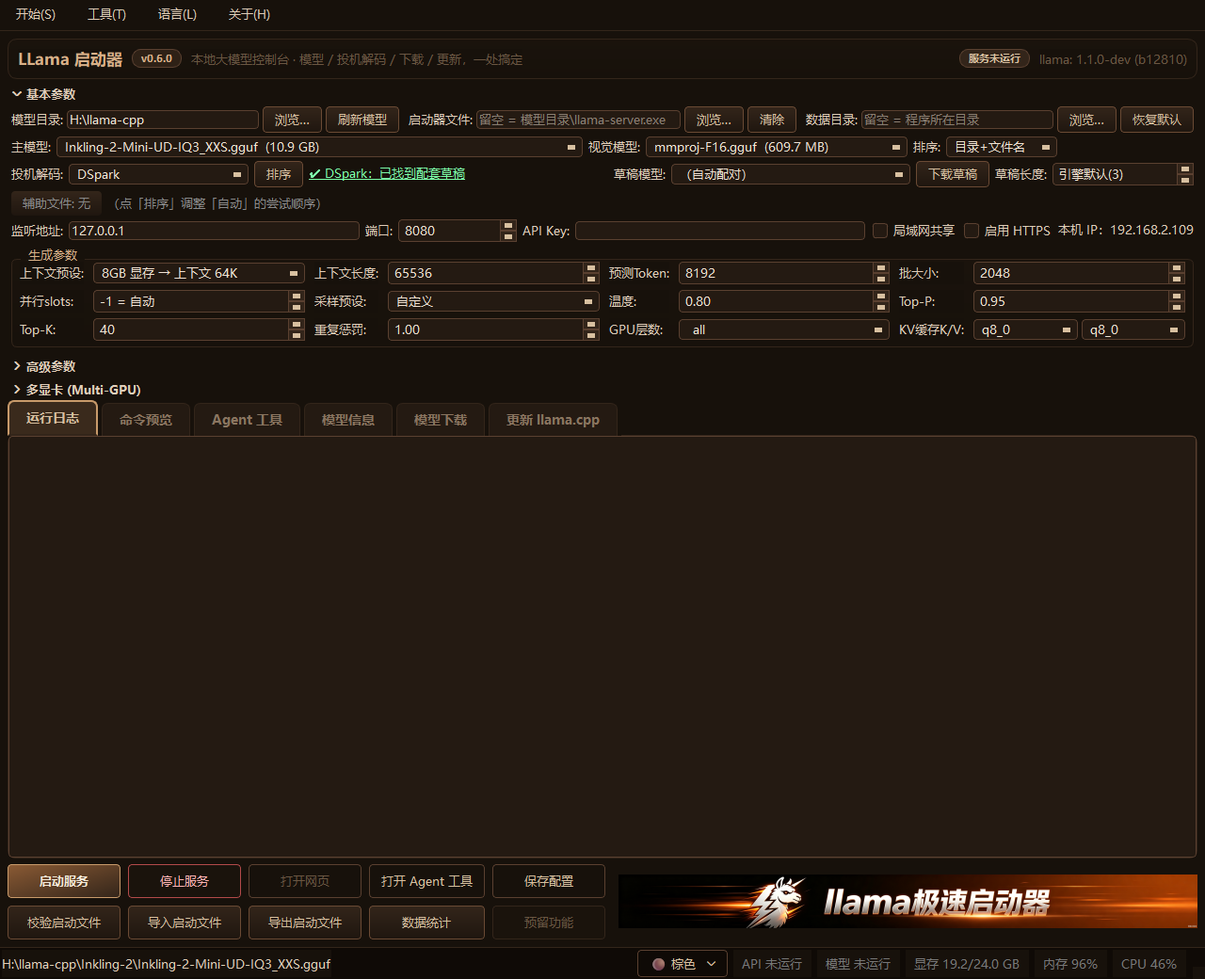
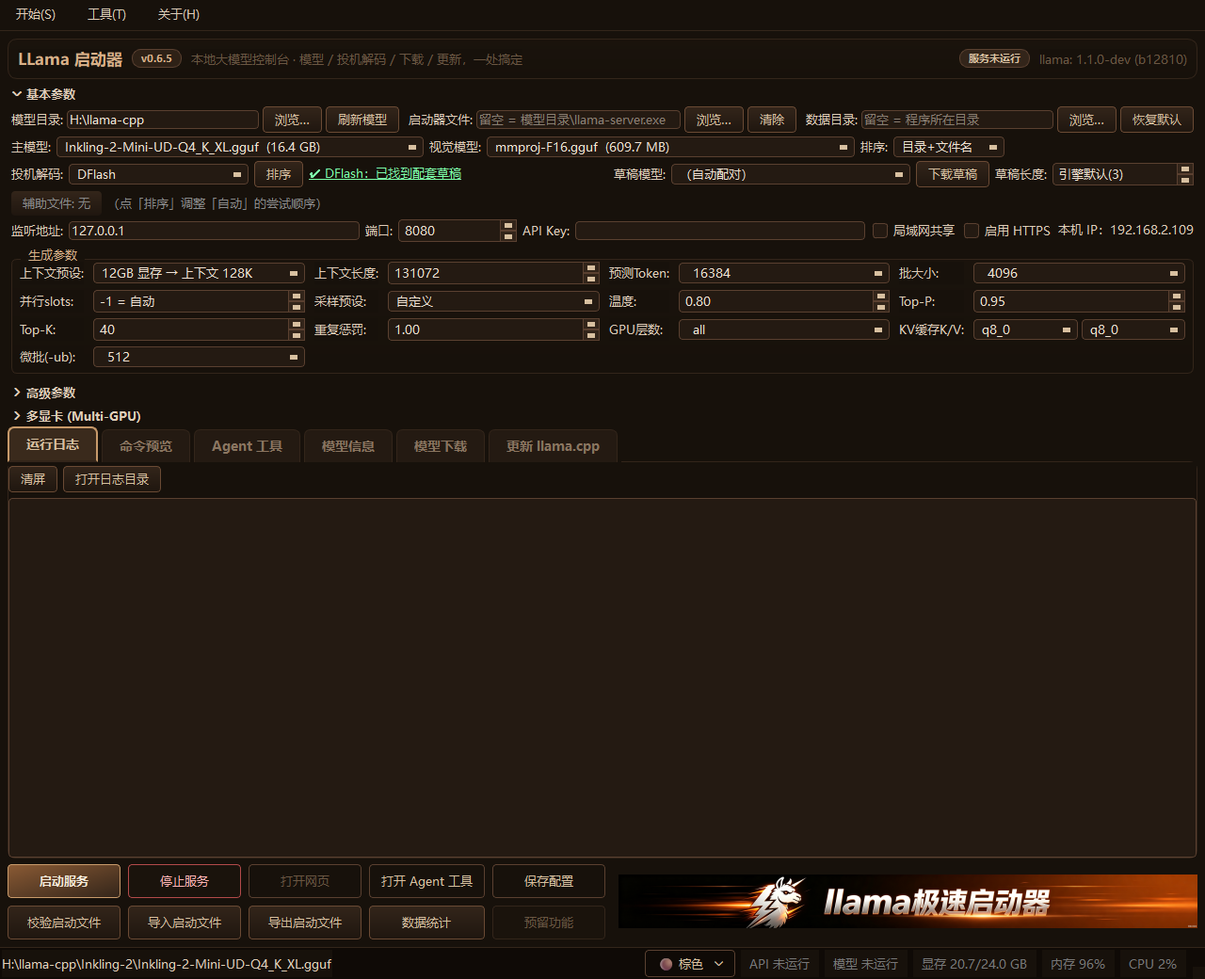
release: v0.6.5 - 启动前按本机算一遍（合理性体检 + 显存预算 + MoE 卸载预设 + 自升级加固）
本版把四个未单独发布的内部迭代（v0.6.1–v0.6.4）并成一个正式版本：

- 兼容 llama.cpp 0.4.1 删掉 --mlock：读本机 llama-server --help 决定写新版 -lm 还是旧版参数，服务不再因此起不来
- 新增「工具 → 启动文件 → 校验启动文件 → 合理性体检」：完全离线按本机逐项给结论；「让模型分析」必须手动点，payload 不含 API Key
- 微批 -ub 进界面 + 启动前显存预算：权重 + KV + 批处理激活缓冲（15 点实测公式），不够只提示并给一键下调，不静默改设置
- MoE 卸载预设按本机显存/内存与模型每层专家实际字节数计算 --n-cpu-moe / --moe-cache-mib；稠密模型不再下发专家参数
- 更新页平台/后端多选筛选；界面字号 Ctrl+滚轮缩放；表格列宽可拖、路径中间省略、操作列按按钮定宽
- 启动器自升级加固：替换失败自动回滚、下载大小与文件头校验、.part 防拼接、便携版走 -portable.zip
- 七张语言表各 1199 条（新增 259 / 清理 19），缺失 0、多余 0
- 文档与物料口径统一到 v0.6.5：首图改为品牌 banner（AI创客师 / AIMakerLab，不含下载链接），页面截图精简为 2 张（main / health）
- 文档正文与代码注释清理本机绝对路径，示例统一 D:/models

测试：_test_all.py 20 套件全通过（moe 71 / membudget 37 / selfupdate 62 断言）

diff --git a/src/locales/ru.py b/src/locales/ru.py
@@ -28,7 +28,7 @@ STRINGS = {
 "== 联网查询结果 ==": "== Результаты онлайн-запроса ==",
 "A/B/C 三个条件的组合方式：并=全部满足；或=任一满足。": "Комбинация трёх условий A/B/C: И = выполняются все; ИЛИ = достаточно любого.",
 "AI 编程 Agent，终端界面（自动连接本服务）": "AI-агент для программирования, терминальный интерфейс (автоподключение к этой службе)",
-"AI创客师": "AI Chuangkesi",
+"AI创客师": "AIMakerLab",
 "API Key：出于安全考虑不导入（文件中为打码值）": "API Key: не импортируется из соображений безопасности (в файле значение замаскировано)",
 "API 使用中({0})": "API задействован ({0})",
 "API 密钥（--api-key）。\n设置后客户端调用接口必须携带此 Key，否则会被拒绝。\n留空 = 不设密钥，任何人都能访问。": "API-ключ (--api-key).\nЕсли задан, клиенты обязаны передавать этот ключ при вызовах API, иначе запрос отклоняется.\nПусто = ключ не требуется, доступ открыт всем.",
@@ -1002,7 +1002,7 @@ STRINGS = {
     "ℹ 该模型带视觉投影文件：选上才能看图（只做纯对话可以留空）": "ℹ У этой модели есть файл проекции зрения: выберите его, чтобы видеть изображения (для текстового чата можно оставить пусто)",
     "同目录发现了 mmproj 视觉投影，说明这个模型支持看图。不选 = 只当纯文本模型用。": "В той же папке найден mmproj — зрительная проекция: модель умеет читать изображения. Не выбрать = использовать только как текстовую.",
 
-    # ── v0.6.2 补充（启动文件体检 / 更新页筛选 / 界面字号缩放）──
+    # ── v0.6.5 补充（启动文件体检 / 更新页筛选 / 界面字号缩放）──
     "(无值)": "(без значения)",
     "--port 超出 1-65535：{0}": "--port вне диапазона 1-65535: {0}",
     "-c {0} 超过模型训练上限 {1}：长度外质量会下降，需要外推请配 RoPE 缩放": "-c {0} превышает обученный лимит модели {1}: за его пределами качество падает; для экстраполяции включите RoPE-scaling",
@@ -1105,7 +1105,7 @@ STRINGS = {
     "；当前估算不需要把专家卸载到 CPU": "; по текущей оценке выгружать экспертов на CPU не нужно",
     "；显存紧张，建议 --n-cpu-moe 从 1/4 层起逐步加大": "; видеопамяти впритык — увеличивайте --n-cpu-moe, начиная с 1/4 слоёв",
 
-    # ── v0.6.2 补充（启动文件体检 / 更新页筛选 / 界面字号缩放）──
+    # ── v0.6.5 补充（启动文件体检 / 更新页筛选 / 界面字号缩放）──
     "--cpu-moe（专家全部放 CPU）": "--cpu-moe (все эксперты на CPU)",
     "--cpu-moe：专家全部留在内存，显存只放注意力等权重": "--cpu-moe: все веса экспертов остаются в ОЗУ, в VRAM — только внимание и прочие веса",
     "--n-cpu-moe {0}（前 {0} 层专家放 CPU）": "--n-cpu-moe {0} (первые {0} слоёв экспертов на CPU)",
@@ -1153,7 +1153,7 @@ STRINGS = {
     "；专家全在显存里，不需要 --moe-cache-mib": "; все эксперты уже в VRAM, --moe-cache-mib не нужен",
     "；专家缓存 --moe-cache-mib {0}（用掉剩余显存约 {1:.2f} GiB）": "; кэш экспертов --moe-cache-mib {0} (занимает ~{1:.2f} GiB из оставшейся VRAM)",
 
-    # ── v0.6.2 补充（启动文件体检 / 更新页筛选 / 界面字号缩放）──
+    # ── v0.6.5 补充（启动文件体检 / 更新页筛选 / 界面字号缩放）──
     "\n\n建议把微批 -ub 从 {0} 降到 {1}（估算降到 {2:.1f} GiB）。": "\n\nРекомендуется уменьшить микробатч -ub с {0} до {1} (оценка снизится до {2:.1f} GiB).",
     "\n\n把微批降到 64 仍装不下（估算 {0:.1f} GiB）：还要降低上下文 -c、打开 -fa on，或把 -ngl 调小。": "\n\nДаже микробатч 64 не помещается (оценка {0:.1f} GiB): уменьшите контекст -c, включите -fa on или уменьшите -ngl.",
     "仍然启动": "Всё равно запустить",
@@ -1179,7 +1179,7 @@ STRINGS = {
     "若启动时报显存分配失败（CUDA graph / buffer alloc），先降 -ub。": "Если при запуске ошибка выделения VRAM (CUDA graph / buffer alloc) — сначала уменьшите -ub.",
     "这是估算，不是保证：驱动、显存碎片、其它程序都会影响实际结果。": "Это оценка, а не гарантия: драйверы, фрагментация VRAM и другие программы влияют на результат.",
 
-    # ── v0.6.2 补充（启动文件体检 / 更新页筛选 / 界面字号缩放）──
+    # ── v0.6.5 补充（启动文件体检 / 更新页筛选 / 界面字号缩放）──
     "zip 包结构不完整": "Архив zip неполный",
     "下载到的包不是有效 zip：{0}": "Загруженный файл не является корректным zip: {0}",
     "下载的文件没有通过校验：{0}。\n可能是网络中断、代理改写或安全软件拦截，已删除该文件，请重试。": "Загруженный файл не прошёл проверку: {0}.\nВозможны обрыв соединения, изменение прокси или блокировка антивирусом. Файл удалён; повторите попытку.",

diff --git a/src/locales/ja.py b/src/locales/ja.py
@@ -28,7 +28,7 @@ STRINGS = {
 "== 联网查询结果 ==": "== オンライン照会結果 ==",
 "A/B/C 三个条件的组合方式：并=全部满足；或=任一满足。": "A/B/C の 3 条件の組み合わせ方：かつ=すべて満たす；または=いずれか満たす。",
 "AI 编程 Agent，终端界面（自动连接本服务）": "AI プログラミング Agent、ターミナル UI（本サービスへ自動接続）",
-"AI创客师": "AI創客師",
+"AI创客师": "AIMakerLab",
 "API Key：出于安全考虑不导入（文件中为打码值）": "API Key：セキュリティ上の理由によりインポートしません（ファイル内はマスキング値）",
 "API 使用中({0})": "API 使用中({0})",
 "API 密钥（--api-key）。\n设置后客户端调用接口必须携带此 Key，否则会被拒绝。\n留空 = 不设密钥，任何人都能访问。": "API キー（--api-key）。\n設定するとクライアントはインターフェース呼び出し時にこの Key を携行する必要があり、ない場合は拒否されます。\n空白 = 鍵を設定せず、誰でもアクセスできます。",
@@ -1002,7 +1002,7 @@ STRINGS = {
     "ℹ 该模型带视觉投影文件：选上才能看图（只做纯对话可以留空）": "ℹ このモデルには視覚プロジェクションファイルがあります。画像を見るには選択してください（テキストのみなら空欄で構いません）",
     "同目录发现了 mmproj 视觉投影，说明这个模型支持看图。不选 = 只当纯文本模型用。": "同じフォルダに mmproj 視覚投影が見つかりました。このモデルは画像を理解できます。未選択 = テキストのみのモデルとして使います。",
 
-    # ── v0.6.2 补充（启动文件体检 / 更新页筛选 / 界面字号缩放）──
+    # ── v0.6.5 补充（启动文件体检 / 更新页筛选 / 界面字号缩放）──
     "(无值)": "(値なし)",
     "--port 超出 1-65535：{0}": "--port が 1-65535 を超えています：{0}",
     "-c {0} 超过模型训练上限 {1}：长度外质量会下降，需要外推请配 RoPE 缩放": "-c {0} はモデルの学習上限 {1} を超過：超えると品質が落ちます。外挿には RoPE スケーリングを設定してください",
@@ -1105,7 +1105,7 @@ STRINGS = {
     "；当前估算不需要把专家卸载到 CPU": "；現在の推定では専門家を CPU にオフロードする必要はありません",
     "；显存紧张，建议 --n-cpu-moe 从 1/4 层起逐步加大": "；VRAM が逼迫気味なので --n-cpu-moe を層数の 1/4 から段階的に増やしてください",
 
-    # ── v0.6.2 补充（启动文件体检 / 更新页筛选 / 界面字号缩放）──
+    # ── v0.6.5 补充（启动文件体检 / 更新页筛选 / 界面字号缩放）──
     "--cpu-moe（专家全部放 CPU）": "--cpu-moe（専門家すべて CPU）",
     "--cpu-moe：专家全部留在内存，显存只放注意力等权重": "--cpu-moe：専門家重みはすべてメモリに置き、VRAM には注意力などの重みだけを載せます",
     "--n-cpu-moe {0}（前 {0} 层专家放 CPU）": "--n-cpu-moe {0}（先頭 {0} 層の専門家を CPU に）",
@@ -1153,7 +1153,7 @@ STRINGS = {
     "；专家全在显存里，不需要 --moe-cache-mib": "；専門家すべて VRAM 内なので --moe-cache-mib は不要です",
     "；专家缓存 --moe-cache-mib {0}（用掉剩余显存约 {1:.2f} GiB）": "；専門家キャッシュ --moe-cache-mib {0}（残り VRAM の約 {1:.2f} GiB を使用）",
 
-    # ── v0.6.2 补充（启动文件体检 / 更新页筛选 / 界面字号缩放）──
+    # ── v0.6.5 补充（启动文件体检 / 更新页筛选 / 界面字号缩放）──
     "\n\n建议把微批 -ub 从 {0} 降到 {1}（估算降到 {2:.1f} GiB）。": "\n\nマイクロバッチ -ub を {0} から {1} に下げることを推奨（見積もりは {2:.1f} GiB に低下）。",
     "\n\n把微批降到 64 仍装不下（估算 {0:.1f} GiB）：还要降低上下文 -c、打开 -fa on，或把 -ngl 调小。": "\n\nマイクロバッチを 64 に下げても収まりません（見積もり {0:.1f} GiB）：コンテキスト -c を下げる、-fa on にする、-ngl を小さくする必要があります。",
     "仍然启动": "そのまま起動",
@@ -1179,7 +1179,7 @@ STRINGS = {
     "若启动时报显存分配失败（CUDA graph / buffer alloc），先降 -ub。": "起動時に VRAM 確保エラー（CUDA graph / buffer alloc）が出る場合は、まず -ub を下げてください。",
     "这是估算，不是保证：驱动、显存碎片、其它程序都会影响实际结果。": "これは見積もりであり保証ではありません。ドライバ、VRAM の断片化、他のアプリの影響を受けます。",
 
-    # ── v0.6.2 补充（启动文件体检 / 更新页筛选 / 界面字号缩放）──
+    # ── v0.6.5 补充（启动文件体检 / 更新页筛选 / 界面字号缩放）──
     "zip 包结构不完整": "zip の構造が不完全です",
     "下载到的包不是有效 zip：{0}": "ダウンロードしたファイルは有効な zip ではありません：{0}",
     "下载的文件没有通过校验：{0}。\n可能是网络中断、代理改写或安全软件拦截，已删除该文件，请重试。": "ダウンロードしたファイルの検証に失敗しました：{0}。\n通信の中断、プロキシによる書き換え、セキュリティソフトの干渉の可能性があります。ファイルは削除しました。もう一度お試しください。",

diff --git a/src/locales/ko.py b/src/locales/ko.py
@@ -28,7 +28,7 @@ STRINGS = {
 "== 联网查询结果 ==": "== 온라인 조회 결과 ==",
 "A/B/C 三个条件的组合方式：并=全部满足；或=任一满足。": "A/B/C 세 조건의 조합 방식: 그리고 = 모두 충족; 또는 = 하나라도 충족.",
 "AI 编程 Agent，终端界面（自动连接本服务）": "AI 코딩 Agent, 터미널 화면 (이 서비스에 자동 연결)",
-"AI创客师": "AI 크리에이터",
+"AI创客师": "AIMakerLab",
 "API Key：出于安全考虑不导入（文件中为打码值）": "API Key: 보안상의 이유로 가져오지 않음 (파일에는 마스킹된 값)",
 "API 使用中({0})": "API 사용 중({0})",
 "API 密钥（--api-key）。\n设置后客户端调用接口必须携带此 Key，否则会被拒绝。\n留空 = 不设密钥，任何人都能访问。": "API 키(--api-key).\n설정하면 클라이언트가 인터페이스를 호출할 때 이 Key를 반드시 포함해야 하며, 그렇지 않으면 거부됩니다.\n비워 두면 = 키 없음, 누구나 접근 가능.",
@@ -1002,7 +1002,7 @@ STRINGS = {
     "ℹ 该模型带视觉投影文件：选上才能看图（只做纯对话可以留空）": "ℹ 이 모델에는 비전 투영 파일이 있습니다. 이미지를 보려면 선택하세요(텍스트 대화만 한다면 비워 두어도 됩니다)",
     "同目录发现了 mmproj 视觉投影，说明这个模型支持看图。不选 = 只当纯文本模型用。": "같은 폴더에서 mmproj 비전 투영을 찾았습니다. 이 모델은 이미지를 이해할 수 있다는 뜻입니다. 선택하지 않으면 텍스트 전용 모델로 씁니다.",
 
-    # ── v0.6.2 补充（启动文件体检 / 更新页筛选 / 界面字号缩放）──
+    # ── v0.6.5 补充（启动文件体检 / 更新页筛选 / 界面字号缩放）──
     "(无值)": "(값 없음)",
     "--port 超出 1-65535：{0}": "--port 값이 1-65535 범위를 벗어남: {0}",
     "-c {0} 超过模型训练上限 {1}：长度外质量会下降，需要外推请配 RoPE 缩放": "-c {0}이(가) 모델 학습 상한 {1}을(를) 초과: 초과 시 품질이 떨어집니다. 외삽이 필요하면 RoPE 스케일링을 설정하세요",
@@ -1105,7 +1105,7 @@ STRINGS = {
     "；当前估算不需要把专家卸载到 CPU": "; 현재 예상으로는 전문가를 CPU로 오프로드할 필요가 없습니다",
     "；显存紧张，建议 --n-cpu-moe 从 1/4 层起逐步加大": "; VRAM이 빠듯하므로 --n-cpu-moe를 레이어의 1/4부터 점차 늘리세요",
 
-    # ── v0.6.2 补充（启动文件体检 / 更新页筛选 / 界面字号缩放）──
+    # ── v0.6.5 补充（启动文件体检 / 更新页筛选 / 界面字号缩放）──
     "--cpu-moe（专家全部放 CPU）": "--cpu-moe(전문가 전부 CPU)",
     "--cpu-moe：专家全部留在内存，显存只放注意力等权重": "--cpu-moe: 전문가 가중치는 전부 메모리에 두고 VRAM 에는 어텐션 등 가중치만 올립니다",
     "--n-cpu-moe {0}（前 {0} 层专家放 CPU）": "--n-cpu-moe {0}(앞의 {0}개 레이어 전문가를 CPU 로)",
@@ -1153,7 +1153,7 @@ STRINGS = {
     "；专家全在显存里，不需要 --moe-cache-mib": "; 전문가가 전부 VRAM 에 있으므로 --moe-cache-mib 가 필요 없습니다",
     "；专家缓存 --moe-cache-mib {0}（用掉剩余显存约 {1:.2f} GiB）": "; 전문가 캐시 --moe-cache-mib {0}(남은 VRAM 약 {1:.2f} GiB 사용)",
 
-    # ── v0.6.2 补充（启动文件体检 / 更新页筛选 / 界面字号缩放）──
+    # ── v0.6.5 补充（启动文件体检 / 更新页筛选 / 界面字号缩放）──
     "\n\n建议把微批 -ub 从 {0} 降到 {1}（估算降到 {2:.1f} GiB）。": "\n\n마이크로 배치 -ub 를 {0} 에서 {1} 로 낮추는 것을 권장합니다(추정치 {2:.1f} GiB).",
     "\n\n把微批降到 64 仍装不下（估算 {0:.1f} GiB）：还要降低上下文 -c、打开 -fa on，或把 -ngl 调小。": "\n\n마이크로 배치를 64 로 낮춰도 들어가지 않습니다(추정 {0:.1f} GiB): 컨텍스트 -c 를 낮추거나 -fa on, 또는 -ngl 을 줄이세요.",
     "仍然启动": "그대로 시작",
@@ -1179,7 +1179,7 @@ STRINGS = {
     "若启动时报显存分配失败（CUDA graph / buffer alloc），先降 -ub。": "시작 시 VRAM 할당 실패(CUDA graph / buffer alloc)가 나면 먼저 -ub 를 낮추세요.",
     "这是估算，不是保证：驱动、显存碎片、其它程序都会影响实际结果。": "이것은 추정치이며 보장이 아닙니다. 드라이버, VRAM 단편화, 다른 프로그램의 영향이 있습니다.",
 
-    # ── v0.6.2 补充（启动文件体检 / 更新页筛选 / 界面字号缩放）──
+    # ── v0.6.5 补充（启动文件体检 / 更新页筛选 / 界面字号缩放）──
     "zip 包结构不完整": "zip 구조가 불완전합니다",
     "下载到的包不是有效 zip：{0}": "다운로드한 파일이 유효한 zip 이 아닙니다: {0}",
     "下载的文件没有通过校验：{0}。\n可能是网络中断、代理改写或安全软件拦截，已删除该文件，请重试。": "다운로드한 파일 검증에 실패했습니다: {0}.\n네트워크 중단, 프록시 변경, 보안 프로그램 차단일 수 있습니다. 파일을 삭제했으니 다시 시도하세요.",

diff --git a/src/locales/fr.py b/src/locales/fr.py
@@ -28,7 +28,7 @@ STRINGS = {
 "== 联网查询结果 ==": "== Résultats de la requête en ligne ==",
 "A/B/C 三个条件的组合方式：并=全部满足；或=任一满足。": "Combinaison des trois conditions A/B/C : ET = toutes satisfaites ; OU = au moins une satisfaite.",
 "AI 编程 Agent，终端界面（自动连接本服务）": "Agent de programmation IA, interface terminal (se connecte automatiquement à ce service)",
-"AI创客师": "AI创客师",
+"AI创客师": "AIMakerLab",
 "API Key：出于安全考虑不导入（文件中为打码值）": "Clé API : non importée par mesure de sécurité (valeur masquée dans le fichier)",
 "API 使用中({0})": "API en utilisation ({0})",
 "API 密钥（--api-key）。\n设置后客户端调用接口必须携带此 Key，否则会被拒绝。\n留空 = 不设密钥，任何人都能访问。": "Clé API (--api-key).\nSi elle est définie, les clients doivent l'inclure dans leurs appels, sinon la requête est rejetée.\nVide = aucune clé, tout le monde peut accéder au service.",
@@ -1002,7 +1002,7 @@ STRINGS = {
     "ℹ 该模型带视觉投影文件：选上才能看图（只做纯对话可以留空）": "ℹ Ce modèle fournit un fichier de projection visuelle : sélectionnez-le pour voir les images (laisser vide pour un chat purement textuel)",
     "同目录发现了 mmproj 视觉投影，说明这个模型支持看图。不选 = 只当纯文本模型用。": "Une projection visuelle mmproj a été trouvée dans le même dossier : ce modèle sait lire les images. Ne pas la choisir = l'utiliser uniquement comme modèle de texte.",
 
-    # ── v0.6.2 补充（启动文件体检 / 更新页筛选 / 界面字号缩放）──
+    # ── v0.6.5 补充（启动文件体检 / 更新页筛选 / 界面字号缩放）──
     "(无值)": "(sans valeur)",
     "--port 超出 1-65535：{0}": "--port hors de 1-65535 : {0}",
     "-c {0} 超过模型训练上限 {1}：长度外质量会下降，需要外推请配 RoPE 缩放": "-c {0} dépasse la limite entraînée du modèle {1} : au-delà la qualité baisse ; activez le scaling RoPE pour extrapoler",
@@ -1105,7 +1105,7 @@ STRINGS = {
     "；当前估算不需要把专家卸载到 CPU": " ; l'estimation actuelle ne demande pas de décharger des experts sur CPU",
     "；显存紧张，建议 --n-cpu-moe 从 1/4 层起逐步加大": " ; la VRAM est juste : augmentez --n-cpu-moe en partant d'1/4 des couches",
 
-    # ── v0.6.2 补充（启动文件体检 / 更新页筛选 / 界面字号缩放）──
+    # ── v0.6.5 补充（启动文件体检 / 更新页筛选 / 界面字号缩放）──
     "--cpu-moe（专家全部放 CPU）": "--cpu-moe (tous les experts sur CPU)",
     "--cpu-moe：专家全部留在内存，显存只放注意力等权重": "--cpu-moe : tous les experts restent en RAM, la VRAM ne porte que l'attention et les autres poids",
     "--n-cpu-moe {0}（前 {0} 层专家放 CPU）": "--n-cpu-moe {0} (les experts des {0} premiers blocs sur CPU)",
@@ -1153,7 +1153,7 @@ STRINGS = {
     "；专家全在显存里，不需要 --moe-cache-mib": " ; tous les experts sont déjà en VRAM, pas besoin de --moe-cache-mib",
     "；专家缓存 --moe-cache-mib {0}（用掉剩余显存约 {1:.2f} GiB）": " ; cache d'experts --moe-cache-mib {0} (utilise ~{1:.2f} GiB de la VRAM restante)",
 
-    # ── v0.6.2 补充（启动文件体检 / 更新页筛选 / 界面字号缩放）──
+    # ── v0.6.5 补充（启动文件体检 / 更新页筛选 / 界面字号缩放）──
     "\n\n建议把微批 -ub 从 {0} 降到 {1}（估算降到 {2:.1f} GiB）。": "\n\nIl est suggéré de réduire le micro-lot -ub de {0} à {1} (estimation ramenée à {2:.1f} GiB).",
     "\n\n把微批降到 64 仍装不下（估算 {0:.1f} GiB）：还要降低上下文 -c、打开 -fa on，或把 -ngl 调小。": "\n\nMême un micro-lot de 64 ne tient pas (estimation {0:.1f} GiB) : réduisez le contexte -c, activez -fa on ou diminuez -ngl.",
     "仍然启动": "Démarrer quand même",
@@ -1179,7 +1179,7 @@ STRINGS = {
     "若启动时报显存分配失败（CUDA graph / buffer alloc），先降 -ub。": "Si le démarrage échoue sur une allocation VRAM (CUDA graph / buffer alloc), baissez d'abord -ub.",
     "这是估算，不是保证：驱动、显存碎片、其它程序都会影响实际结果。": "Ce n'est qu'une estimation, pas une garantie : pilotes, fragmentation de la VRAM et autres programmes jouent un rôle.",
 
-    # ── v0.6.2 补充（启动文件体检 / 更新页筛选 / 界面字号缩放）──
+    # ── v0.6.5 补充（启动文件体检 / 更新页筛选 / 界面字号缩放）──
     "zip 包结构不完整": "L'archive zip est incomplète",
     "下载到的包不是有效 zip：{0}": "Le fichier téléchargé n'est pas un zip valide : {0}",
     "下载的文件没有通过校验：{0}。\n可能是网络中断、代理改写或安全软件拦截，已删除该文件，请重试。": "Le fichier téléchargé a échoué la vérification : {0}.\nCause possible : connexion interrompue, proxy qui le réécrit ou antivirus. Le fichier a été supprimé ; réessayez.",

diff --git a/src/locales/es.py b/src/locales/es.py
@@ -28,7 +28,7 @@ STRINGS = {
 "== 联网查询结果 ==": "== Resultados de consulta en línea ==",
 "A/B/C 三个条件的组合方式：并=全部满足；或=任一满足。": "Forma de combinar las condiciones A/B/C: Y = se cumplen todas; O = se cumple alguna.",
 "AI 编程 Agent，终端界面（自动连接本服务）": "Agente de programación IA, interfaz de terminal (se conecta automáticamente a este servicio)",
-"AI创客师": "Creador de IA",
+"AI创客师": "AIMakerLab",
 "API Key：出于安全考虑不导入（文件中为打码值）": "API Key: no se importa por seguridad (en el archivo está enmascarada)",
 "API 使用中({0})": "API en uso ({0})",
 "API 密钥（--api-key）。\n设置后客户端调用接口必须携带此 Key，否则会被拒绝。\n留空 = 不设密钥，任何人都能访问。": "Clave de API (--api-key).\nSi se define, los clientes deberán incluirla al llamar la interfaz; de lo contrario serán rechazados.\nVacío = sin clave; cualquiera puede acceder.",
@@ -1002,7 +1002,7 @@ STRINGS = {
     "ℹ 该模型带视觉投影文件：选上才能看图（只做纯对话可以留空）": "ℹ Este modelo incluye un archivo de proyección visual: selecciónalo para ver imágenes (puedes dejarlo vacío si solo chateas por texto)",
     "同目录发现了 mmproj 视觉投影，说明这个模型支持看图。不选 = 只当纯文本模型用。": "Se encontró una proyección visual mmproj en la misma carpeta: el modelo puede leer imágenes. Si no lo eliges, se usará solo como modelo de texto.",
 
-    # ── v0.6.2 补充（启动文件体检 / 更新页筛选 / 界面字号缩放）──
+    # ── v0.6.5 补充（启动文件体检 / 更新页筛选 / 界面字号缩放）──
     "(无值)": "(sin valor)",
     "--port 超出 1-65535：{0}": "--port fuera de 1-65535: {0}",
     "-c {0} 超过模型训练上限 {1}：长度外质量会下降，需要外推请配 RoPE 缩放": "-c {0} supera el límite entrenado del modelo {1}: más allá baja la calidad; usa escalado RoPE para extrapolar",
@@ -1105,7 +1105,7 @@ STRINGS = {
     "；当前估算不需要把专家卸载到 CPU": "; según la estimación actual no hace falta descargar expertos a CPU",
     "；显存紧张，建议 --n-cpu-moe 从 1/4 层起逐步加大": "; la VRAM está justa: sube --n-cpu-moe empezando por 1/4 de las capas",
 
-    # ── v0.6.2 补充（启动文件体检 / 更新页筛选 / 界面字号缩放）──
+    # ── v0.6.5 补充（启动文件体检 / 更新页筛选 / 界面字号缩放）──
     "--cpu-moe（专家全部放 CPU）": "--cpu-moe (todos los expertos en CPU)",
     "--cpu-moe：专家全部留在内存，显存只放注意力等权重": "--cpu-moe: todos los expertos se quedan en RAM; la VRAM solo guarda atención y otros pesos",
     "--n-cpu-moe {0}（前 {0} 层专家放 CPU）": "--n-cpu-moe {0} (los expertos de los {0} primeros bloques en CPU)",
@@ -1153,7 +1153,7 @@ STRINGS = {
     "；专家全在显存里，不需要 --moe-cache-mib": "; todos los expertos ya están en VRAM, no hace falta --moe-cache-mib",
     "；专家缓存 --moe-cache-mib {0}（用掉剩余显存约 {1:.2f} GiB）": "; caché de expertos --moe-cache-mib {0} (usa ~{1:.2f} GiB de la VRAM restante)",
 
-    # ── v0.6.2 补充（启动文件体检 / 更新页筛选 / 界面字号缩放）──
+    # ── v0.6.5 补充（启动文件体检 / 更新页筛选 / 界面字号缩放）──
     "\n\n建议把微批 -ub 从 {0} 降到 {1}（估算降到 {2:.1f} GiB）。": "\n\nSe sugiere bajar el micro-lote -ub de {0} a {1} (la estimación baja a {2:.1f} GiB).",
     "\n\n把微批降到 64 仍装不下（估算 {0:.1f} GiB）：还要降低上下文 -c、打开 -fa on，或把 -ngl 调小。": "\n\nNi con un micro-lote de 64 cabe (estimación {0:.1f} GiB): baja el contexto -c, activa -fa on o reduce -ngl.",
     "仍然启动": "Iniciar de todos modos",
@@ -1179,7 +1179,7 @@ STRINGS = {
     "若启动时报显存分配失败（CUDA graph / buffer alloc），先降 -ub。": "Si al arrancar falla la reserva de VRAM (CUDA graph / buffer alloc), baja -ub primero.",
     "这是估算，不是保证：驱动、显存碎片、其它程序都会影响实际结果。": "Es una estimación, no una garantía: los drivers, la fragmentación de VRAM y otros programas influyen.",
 
-    # ── v0.6.2 补充（启动文件体检 / 更新页筛选 / 界面字号缩放）──
+    # ── v0.6.5 补充（启动文件体检 / 更新页筛选 / 界面字号缩放）──
     "zip 包结构不完整": "El zip está incompleto",
     "下载到的包不是有效 zip：{0}": "Lo descargado no es un zip válido: {0}",
     "下载的文件没有通过校验：{0}。\n可能是网络中断、代理改写或安全软件拦截，已删除该文件，请重试。": "El archivo descargado no pasó la verificación: {0}.\nPuede ser un corte de red, un proxy que lo reescribe o el antivirus. Se borró el archivo; reinténtalo.",

diff --git a/src/locales/en.py b/src/locales/en.py
@@ -28,7 +28,7 @@ STRINGS = {
 "== 联网查询结果 ==": "== Online lookup results ==",
 "A/B/C 三个条件的组合方式：并=全部满足；或=任一满足。": "How the three conditions A/B/C are combined: AND = all must match; OR = any one matches.",
 "AI 编程 Agent，终端界面（自动连接本服务）": "AI coding agent, terminal UI (connects to this service automatically)",
-"AI创客师": "AI Maker",
+"AI创客师": "AIMakerLab",
 "API Key：出于安全考虑不导入（文件中为打码值）": "API Key: not imported for security reasons (the file holds a masked value)",
 "API 使用中({0})": "API in use ({0})",
 "API 密钥（--api-key）。\n设置后客户端调用接口必须携带此 Key，否则会被拒绝。\n留空 = 不设密钥，任何人都能访问。": "API key (--api-key).\nWhen set, clients must send this key with every request or they are rejected.\nEmpty = no key; anyone can access the service.",
@@ -1002,7 +1002,7 @@ STRINGS = {
     "ℹ 该模型带视觉投影文件：选上才能看图（只做纯对话可以留空）": "ℹ This model ships a vision projection file: select it to see images (leave empty for text-only chat)",
     "同目录发现了 mmproj 视觉投影，说明这个模型支持看图。不选 = 只当纯文本模型用。": "A mmproj vision projection was found in the same folder, so this model can read images. Leaving it unselected = text-only model.",
 
-    # ── v0.6.2 补充（启动文件体检 / 更新页筛选 / 界面字号缩放）──
+    # ── v0.6.5 补充（启动文件体检 / 更新页筛选 / 界面字号缩放）──
     "(无值)": "(no value)",
     "--port 超出 1-65535：{0}": "--port outside 1-65535: {0}",
     "-c {0} 超过模型训练上限 {1}：长度外质量会下降，需要外推请配 RoPE 缩放": "-c {0} exceeds the model's trained limit {1}: quality drops beyond it; set RoPE scaling to extrapolate",
@@ -1105,7 +1105,7 @@ STRINGS = {
     "；当前估算不需要把专家卸载到 CPU": "; current estimates do not require offloading experts to CPU",
     "；显存紧张，建议 --n-cpu-moe 从 1/4 层起逐步加大": "; VRAM is tight, so raise --n-cpu-moe gradually starting from 1/4 of the layers",
 
-    # ── v0.6.2 补充（启动文件体检 / 更新页筛选 / 界面字号缩放）──
+    # ── v0.6.5 补充（启动文件体检 / 更新页筛选 / 界面字号缩放）──
     "--cpu-moe（专家全部放 CPU）": "--cpu-moe (all experts on CPU)",
     "--cpu-moe：专家全部留在内存，显存只放注意力等权重": "--cpu-moe: all experts stay in RAM, VRAM only holds attention and other weights",
     "--n-cpu-moe {0}（前 {0} 层专家放 CPU）": "--n-cpu-moe {0} (first {0} layers' experts on CPU)",
@@ -1153,7 +1153,7 @@ STRINGS = {
     "；专家全在显存里，不需要 --moe-cache-mib": "; all experts are already in VRAM, no --moe-cache-mib needed",
     "；专家缓存 --moe-cache-mib {0}（用掉剩余显存约 {1:.2f} GiB）": "; expert cache --moe-cache-mib {0} (uses about {1:.2f} GiB of the remaining VRAM)",
 
-    # ── v0.6.2 补充（启动文件体检 / 更新页筛选 / 界面字号缩放）──
+    # ── v0.6.5 补充（启动文件体检 / 更新页筛选 / 界面字号缩放）──
     "\n\n建议把微批 -ub 从 {0} 降到 {1}（估算降到 {2:.1f} GiB）。": "\n\nSuggested: lower the micro-batch -ub from {0} to {1} (estimate drops to {2:.1f} GiB).",
     "\n\n把微批降到 64 仍装不下（估算 {0:.1f} GiB）：还要降低上下文 -c、打开 -fa on，或把 -ngl 调小。": "\n\nEven a micro-batch of 64 does not fit (estimate {0:.1f} GiB): lower the context -c, turn -fa on, or reduce -ngl.",
     "仍然启动": "Start anyway",
@@ -1179,7 +1179,7 @@ STRINGS = {
     "若启动时报显存分配失败（CUDA graph / buffer alloc），先降 -ub。": "If startup fails with a VRAM allocation error (CUDA graph / buffer alloc), lower -ub first.",
     "这是估算，不是保证：驱动、显存碎片、其它程序都会影响实际结果。": "This is an estimate, not a promise: drivers, VRAM fragmentation and other applications all affect the result.",
 
-    # ── v0.6.2 补充（启动文件体检 / 更新页筛选 / 界面字号缩放）──
+    # ── v0.6.5 补充（启动文件体检 / 更新页筛选 / 界面字号缩放）──
     "zip 包结构不完整": "The zip archive is incomplete",
     "下载到的包不是有效 zip：{0}": "What was downloaded is not a valid zip: {0}",
     "下载的文件没有通过校验：{0}。\n可能是网络中断、代理改写或安全软件拦截，已删除该文件，请重试。": "The downloaded file failed verification: {0}.\nThis can be a broken connection, a proxy rewriting it or security software interfering. The file has been deleted; please retry.",

diff --git a/src/locales/zh_tw.py b/src/locales/zh_tw.py
@@ -28,7 +28,7 @@ STRINGS = {
 "== 联网查询结果 ==": "== 連線查詢結果 ==",
 "A/B/C 三个条件的组合方式：并=全部满足；或=任一满足。": "A/B/C 三個條件的組合方式：且=全部滿足；或=任一滿足。",
 "AI 编程 Agent，终端界面（自动连接本服务）": "AI 程式設計 Agent，終端介面（自動連線本服務）",
-"AI创客师": "AI 創客師",
+"AI创客师": "AI 創客師 AIMakerLab",
 "API Key：出于安全考虑不导入（文件中为打码值）": "API Key：基於安全考量不匯入（檔案中為遮罩值）",
 "API 使用中({0})": "API 使用中({0})",
 "API 密钥（--api-key）。\n设置后客户端调用接口必须携带此 Key，否则会被拒绝。\n留空 = 不设密钥，任何人都能访问。": "API 金鑰（--api-key）。\n設定後用戶端呼叫介面必須攜帶此 Key，否則會被拒絕。\n留空 = 不設金鑰，任何人都能存取。",
@@ -1002,7 +1002,7 @@ STRINGS = {
     "ℹ 该模型带视觉投影文件：选上才能看图（只做纯对话可以留空）": "ℹ 該模型帶視覺投影檔案：選上才能看圖（只做純對話可以留空）",
     "同目录发现了 mmproj 视觉投影，说明这个模型支持看图。不选 = 只当纯文本模型用。": "同目錄發現了 mmproj 視覺投影，說明這個模型支援看圖。不選 = 只當純文字模型用。",
 
-    # ── v0.6.2 补充（启动文件体检 / 更新页筛选 / 界面字号缩放）──
+    # ── v0.6.5 补充（启动文件体检 / 更新页筛选 / 界面字号缩放）──
     "(无值)": "(無值)",
     "--port 超出 1-65535：{0}": "--port 超出 1-65535：{0}",
     "-c {0} 超过模型训练上限 {1}：长度外质量会下降，需要外推请配 RoPE 缩放": "-c {0} 超過模型訓練上限 {1}：長度外品質會下降，需要外推請配 RoPE 縮放",
@@ -1105,7 +1105,7 @@ STRINGS = {
     "；当前估算不需要把专家卸载到 CPU": "；目前估算不需要把專家卸載到 CPU",
     "；显存紧张，建议 --n-cpu-moe 从 1/4 层起逐步加大": "；顯示記憶體緊張，建議 --n-cpu-moe 從 1/4 層起逐步加大",
 
-    # ── v0.6.2 补充（启动文件体检 / 更新页筛选 / 界面字号缩放）──
+    # ── v0.6.5 补充（启动文件体检 / 更新页筛选 / 界面字号缩放）──
     "--cpu-moe（专家全部放 CPU）": "--cpu-moe（專家全部放 CPU）",
     "--cpu-moe：专家全部留在内存，显存只放注意力等权重": "--cpu-moe：專家全部留在記憶體，顯示記憶體只放注意力等權重",
     "--n-cpu-moe {0}（前 {0} 层专家放 CPU）": "--n-cpu-moe {0}（前 {0} 層專家放 CPU）",
@@ -1153,7 +1153,7 @@ STRINGS = {
     "；专家全在显存里，不需要 --moe-cache-mib": "；專家全在顯示記憶體裡，不需要 --moe-cache-mib",
     "；专家缓存 --moe-cache-mib {0}（用掉剩余显存约 {1:.2f} GiB）": "；專家快取 --moe-cache-mib {0}（用掉剩餘顯示記憶體約 {1:.2f} GiB）",
 
-    # ── v0.6.2 补充（启动文件体检 / 更新页筛选 / 界面字号缩放）──
+    # ── v0.6.5 补充（启动文件体检 / 更新页筛选 / 界面字号缩放）──
     "\n\n建议把微批 -ub 从 {0} 降到 {1}（估算降到 {2:.1f} GiB）。": "\n\n建議把微批 -ub 從 {0} 降到 {1}（估算降到 {2:.1f} GiB）。",
     "\n\n把微批降到 64 仍装不下（估算 {0:.1f} GiB）：还要降低上下文 -c、打开 -fa on，或把 -ngl 调小。": "\n\n把微批降到 64 仍裝不下（估算 {0:.1f} GiB）：還要降低上下文 -c、開啟 -fa on，或把 -ngl 調小。",
     "仍然启动": "仍然啟動",
@@ -1179,7 +1179,7 @@ STRINGS = {
     "若启动时报显存分配失败（CUDA graph / buffer alloc），先降 -ub。": "若啟動時報顯示記憶體分配失敗（CUDA graph / buffer alloc），先降 -ub。",
     "这是估算，不是保证：驱动、显存碎片、其它程序都会影响实际结果。": "這是估算，不是保證：驅動、顯示記憶體碎片、其它程式都會影響實際結果。",
 
-    # ── v0.6.2 补充（启动文件体检 / 更新页筛选 / 界面字号缩放）──
+    # ── v0.6.5 补充（启动文件体检 / 更新页筛选 / 界面字号缩放）──
     "zip 包结构不完整": "zip 包結構不完整",
     "下载到的包不是有效 zip：{0}": "下載到的包不是有效 zip：{0}",
     "下载的文件没有通过校验：{0}。\n可能是网络中断、代理改写或安全软件拦截，已删除该文件，请重试。": "下載的文件沒有通過校驗：{0}。\n可能是網路中斷、代理改寫或安全軟體攔截，已刪除該檔案，請重試。",

diff --git a/src/main_window.py b/src/main_window.py
@@ -307,7 +307,7 @@ class MainWindow(MenuAboutMixin, ConfigIOMixin, AppPrefsMixin, TrayPillMixin, Ag
         self.tool_table.currentCellChanged.connect(self._on_tool_cell_changed)
         tt.addWidget(self.tool_table)
 
-        # ---- 运行日志 Tab（v0.6.2：页内直接给「清屏」，以前只能去菜单深处找）----
+        # ---- 运行日志 Tab（v0.6.5：页内直接给「清屏」，以前只能去菜单深处找）----
         log_tab = QWidget()
         lt = QVBoxLayout(log_tab)
         lt.setContentsMargins(0, 4, 0, 0)
@@ -567,7 +567,7 @@ class MainWindow(MenuAboutMixin, ConfigIOMixin, AppPrefsMixin, TrayPillMixin, Ag
         self.act_api.triggered.connect(self.open_api)
         self.act_open_agent.triggered.connect(self.open_selected_agent_tool)
         self.act_clear_log.triggered.connect(self.clear_run_log)
-        # 日志页顶部按钮（v0.6.2）：清屏 + 打开日志目录
+        # 日志页顶部按钮（v0.6.5）：清屏 + 打开日志目录
         self.btn_log_clear.clicked.connect(self.clear_run_log)
         self.btn_log_open.clicked.connect(self.open_log_dir)
         self.act_open_log.triggered.connect(self.open_log_dir)
@@ -589,7 +589,7 @@ class MainWindow(MenuAboutMixin, ConfigIOMixin, AppPrefsMixin, TrayPillMixin, Ag
         self.chat_detected.connect(self._on_chat_detected)
         self.check_jinja.toggled.connect(self._update_chat_controls)
         self.combo_moe.currentIndexChanged.connect(self._on_moe_changed)
-        # MoE 卸载预设（v0.6.2）：选档位就按本机资源算 N / 缓存；手动改任何一项退回「不套用」
+        # MoE 卸载预设（v0.6.5）：选档位就按本机资源算 N / 缓存；手动改任何一项退回「不套用」
         self.combo_moe_preset.currentIndexChanged.connect(self.on_moe_preset_changed)
         self.combo_moe.currentIndexChanged.connect(self.on_moe_manual)
         self.spin_moe_layers.valueChanged.connect(self.on_moe_manual)

diff --git a/src/launcher_updater.py b/src/launcher_updater.py
@@ -3,7 +3,7 @@
 只依赖 requests + 标准库；GUI 在 ui/launcher_update_dialog.py。
 源码运行（python main.py）不做替换，只提示打开 Release 页面。
 
-三种安装形态要分开处理（v0.6.2）：
+三种安装形态要分开处理（v0.6.5）：
   single   单文件 exe（PyInstaller onefile）→ 直接换 exe
   portable 便携目录（exe + `_internal/`）→ 换 exe **并且**换 `_internal`，用户数据不动
   source   源码运行 → 不换自己，只打开 Release 页面
@@ -143,7 +143,7 @@ def _asset_kind(asset):
 def pick_asset(release, arch=None, kind=None):
     """挑适合当前安装形态与架构的资产。
 
-    单文件/源码 → 优先 `.exe`；**便携目录 → 优先 `-portable.zip`**（v0.6.2 修：
+    单文件/源码 → 优先 `.exe`；**便携目录 → 优先 `-portable.zip`**（v0.6.5 修：
     原来一律优先 exe，便携版用户会被换成单文件包，`_internal/` 变成几十 MB 垃圾，
     启动还慢一截）。目标形态没有对应包时退而求其次，由界面如实说明。
     """

diff --git a/src/cmd_builder.py b/src/cmd_builder.py
@@ -97,7 +97,7 @@ def _moe_args(s, model_path=""):
     - moe_mode = "n"    ：--n-cpu-moe N，前 N 层专家放 CPU（MoE 最常用）；
     - moe_cache_mib > 0 ：--moe-cache-mib N，CPU 专家缓存（llama.cpp 新参数）。
 
-    **只对真的有专家权重的模型下发**（v0.6.2 修的 bug）：这三个参数过去只看配置，
+    **只对真的有专家权重的模型下发**（v0.6.5 修的 bug）：这三个参数过去只看配置，
     而配置是跨模型留存的——跑完 Inkling-2（MoE）选了「前 N 层放 CPU」，切到
     Qwen3.8-27B（`expert_count=0`，稠密）照样带着 `--n-cpu-moe` 下去。
     稠密模型上没有专家可卸载，参数虽不报错但纯属误导，让人以为显存省下来了。

diff --git a/src/ui/launch_flow.py b/src/ui/launch_flow.py
@@ -115,7 +115,7 @@ class LaunchFlowMixin:
                 QMessageBox.StandardButton.No)
             if ret != QMessageBox.StandardButton.Yes:
                 return
-        # 启动前显存预算（v0.6.2）：超了就摆数字 + 给一键下调，绝不静默改设置。
+        # 启动前显存预算（v0.6.5）：超了就摆数字 + 给一键下调，绝不静默改设置。
         # 必须排在 build_args 之前：用户选「按建议改微批」时要让新值进命令行。
         if not self._prelaunch_vram_check(model, s):
             return

diff --git a/src/ui/config_io.py b/src/ui/config_io.py
@@ -32,7 +32,7 @@ class ConfigIOMixin:
         ]
 
     def _on_moe_changed(self):
-        """MoE 模式联动：只有「前 N 层」才需要 N；稠密模型整套置灰（v0.6.2）。
+        """MoE 模式联动：只有「前 N 层」才需要 N；稠密模型整套置灰（v0.6.5）。
 
         `_moe_dense` 由 `ui/moe_flow.py` 后台扫描专家权重后写回（None = 还没判出来，
         先按可用处理，不因为探测慢就把控件锁死）。
